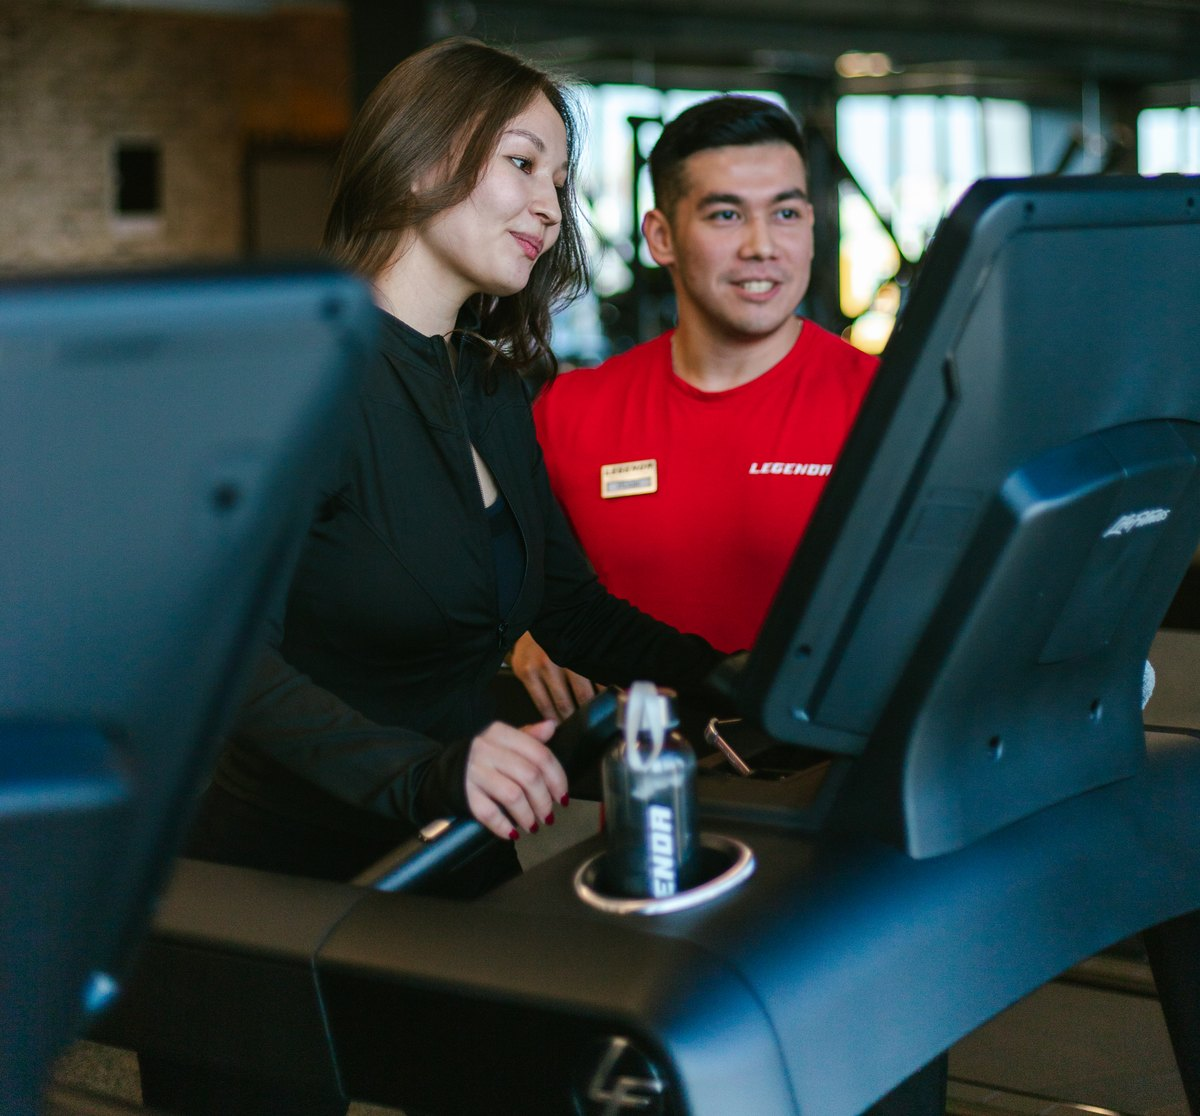
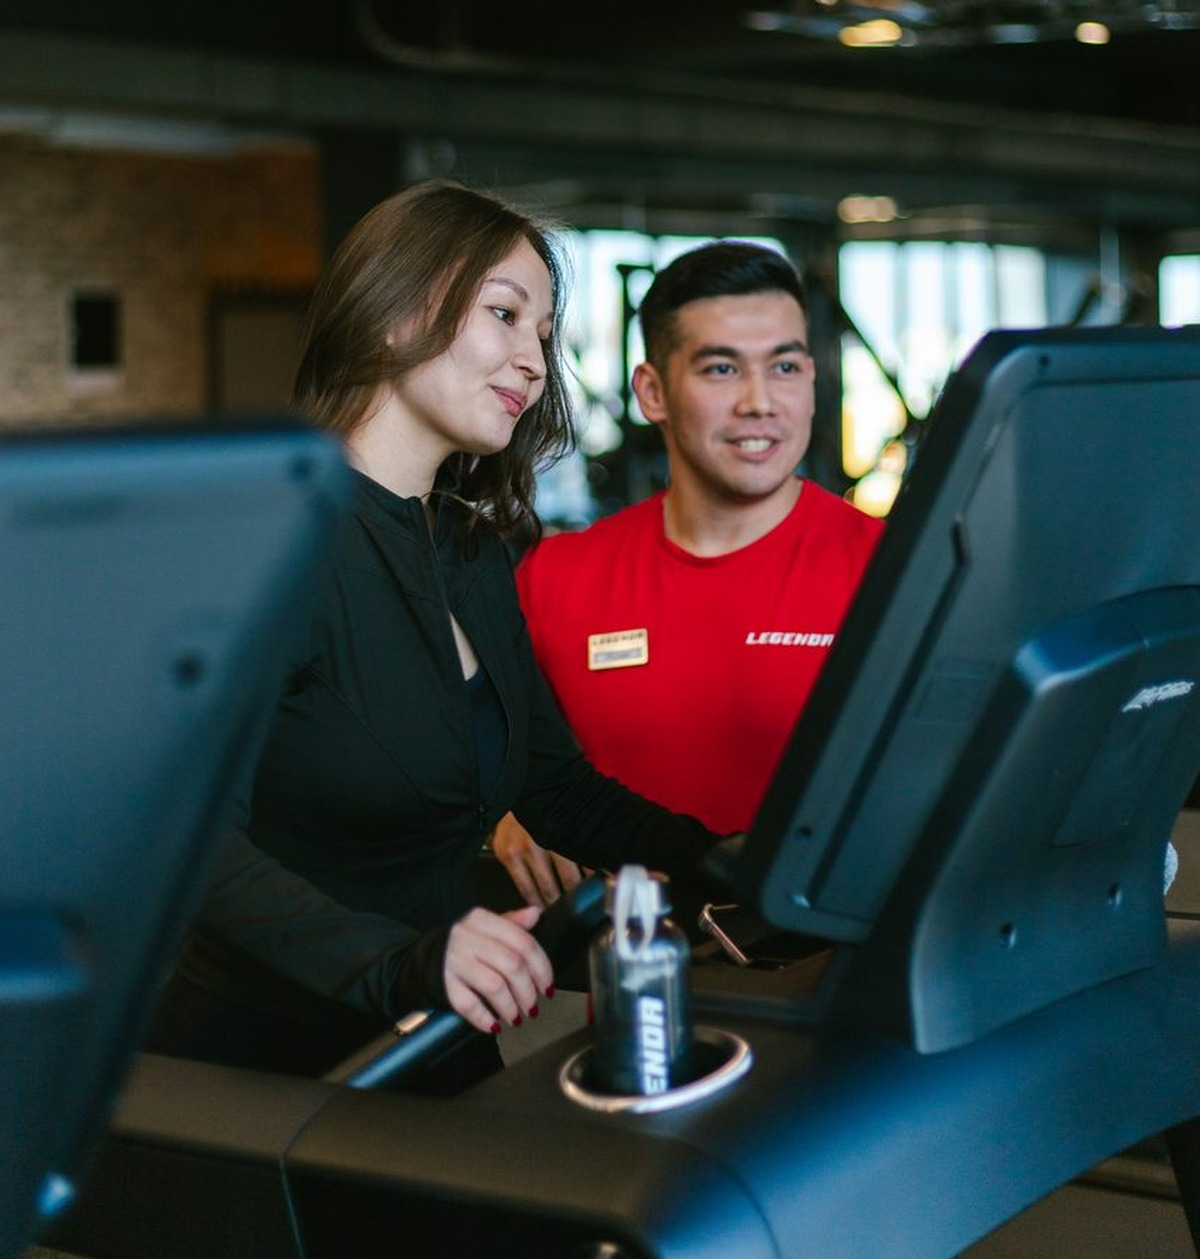
Поднять кадр hero: голова полностью в кадре
Пересобрать hero с запасом сверху ~13% и сместить object-position вверх.

diff --git a/styles.css b/styles.css
@@ -215,8 +215,8 @@ button {
   height: 100%;
   min-height: 620px;
   object-fit: cover;
-  /* Asset already cut away from ceiling lights */
-  object-position: center 42%;
+  /* Rebaked with ~13% more headroom; bias up so head stays in frame */
+  object-position: center 32%;
 }
 
 .hero__shade {
@@ -1138,7 +1138,7 @@ button {
     height: 100%;
     min-height: 0;
     object-fit: cover;
-    object-position: center 40%;
+    object-position: center 28%;
   }
 
   .hero__shade {
